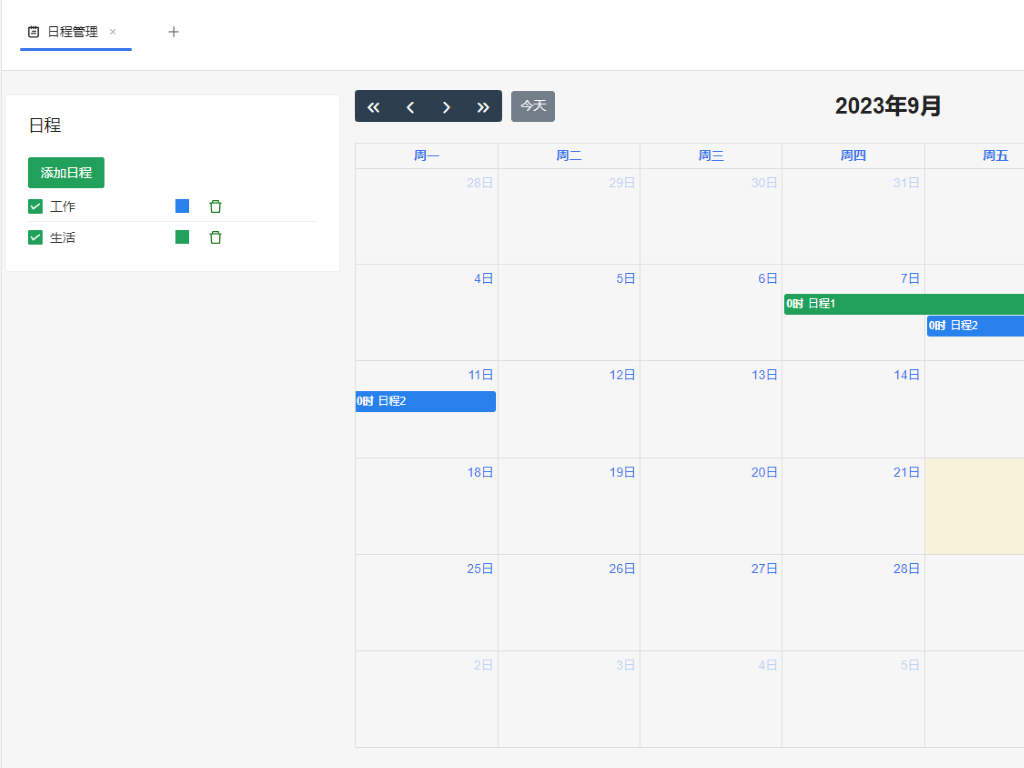
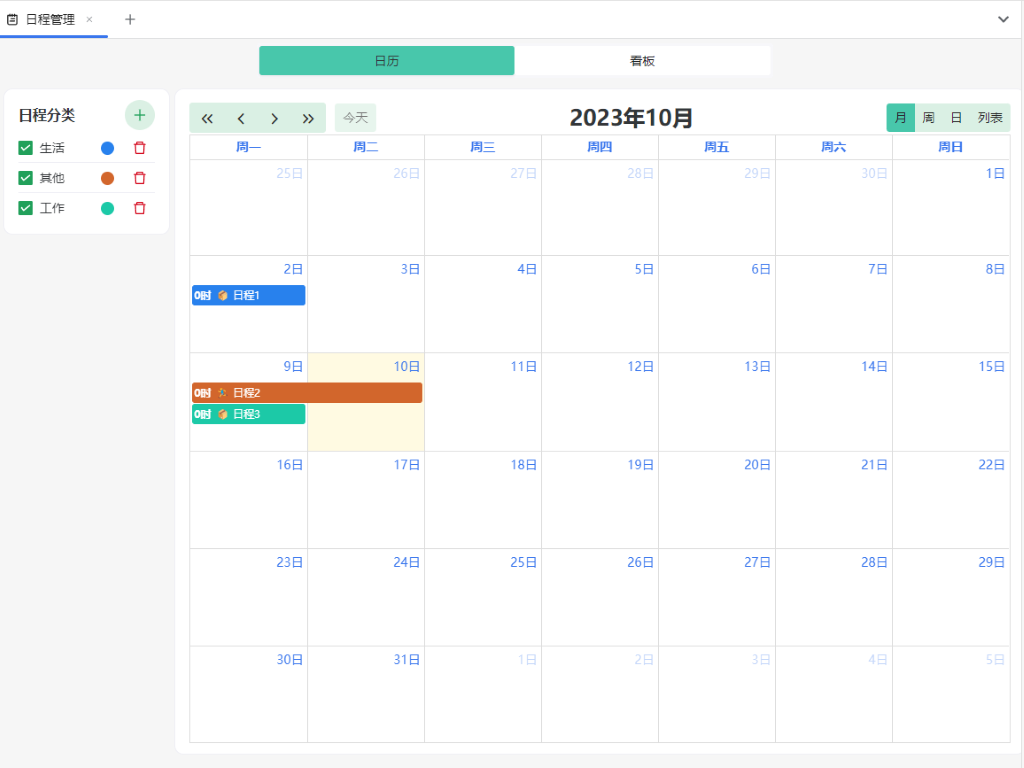
docs: 1. Update docs

diff --git a/src/components/ScheduleCategory.vue b/src/components/ScheduleCategory.vue
@@ -131,7 +131,7 @@ export default defineComponent({
 
   methods: {
     submitCallback() {
-      let newCategory = new ScheduleCategory(this.scheduleName, this.scheduleColor);
+      let newCategory = new ScheduleCategory(this.scheduleName, this.scheduleColor, true);
       if(this.globalData.scheduleCategories.addCategory(newCategory) === true) {
         EventAggregator.emit('addCategorty', {
           "checked": newCategory.checked,

diff --git a/README_zh_CN.md b/README_zh_CN.md
@@ -27,28 +27,31 @@
 ### 2. 删除日程分类
 点击日程分类最后的删除按钮，可以删除对应日程分类，以及**日程管理笔记本**下的对应文档。
 
+### 3. 日程分类选定
+点击日程分类名前的勾选框，可以选择是否显示当前分类下的所有日程，勾选状态会保存到文档中。
+
 >- **操作需谨慎**，删除日程分类会删除对应的所有日程，且不可恢复
 
-### 3. 添加日程
+### 4. 添加日程
 双击某个日历格，会弹出日程添加界面，可以自定义日程分类、日程起止时间、日程名、日程内容和日程的状态。
 
 添加日程时，会在相应名字的文档中创建一条记录，**不要编辑！！！**
 
 [![pPogRoQ.png](https://z1.ax1x.com/2023/09/22/pPogRoQ.png)](https://imgse.com/i/pPogRoQ)
 
-### 4. 更新日程
+### 5. 更新日程
 单击某个日程，会弹出更新日程的界面，可以修改日程的各种信息。同时修改对应文档中记录的信息。
 
 [![pPog2dg.png](https://z1.ax1x.com/2023/09/22/pPog2dg.png)](https://imgse.com/i/pPog2dg)
 
-### 5. 删除日程
+### 6. 删除日程
 在上述日程更新界面，点击删除日程按钮，会删除当前日程，以及对应文档中的记录，**不可恢复**。
 
-### 6. 日程信息编辑界面
+### 7. 日程信息编辑界面
 1. 点击确定、更新、删除日程或取消按钮时，界面会消失，并且会清空上次填写的信息。
 2. 点击空白处，界面会消失，会保留上次填写的信息（防止误操作）。
 
-### 7. 任务看板界面
+### 8. 任务看板界面
 1. 实现了比较简陋的任务看板界面。
 2. 不支持日程的新增、拖拽。
 3. 支持日程信息的更新。
@@ -59,7 +62,7 @@
 - [ ] 文档中日程记录显示样式优化
 - [x] 任务看板界面
 - [ ] 适配移动端
-- [ ] 根据日程分类筛选加载的日程
+- [x] 根据日程分类筛选加载的日程
 
 ## FAQ
 

diff --git a/README.md b/README.md
@@ -29,6 +29,9 @@ Through clicking the remove button at the end of a schedule category, you can re
 
 >- **Need to be careful**, removing a schedule category removes all the corresponding schedules and cannot be recovered.
 
+### 3. Selection of Schedule Category
+Click the checkbox in front of the schedule category name to choose whether to display all schedules under the current category. The check status will be saved in the document.
+
 ### 3. Add Schedule
 Double-click a calendar grid to open a schedule adding window, where you can customize the category, time range, name, content and status of a schedule.
 
@@ -58,7 +61,7 @@ Clicking the remove schedule button on the above-mentioned window will remove th
 - [ ] Optimization of the display style of schedule records in documents
 - [x] Task kanban view
 - [ ] Adaptation for mobile
-- [ ] Filter loaded schedules according to schedule categories
+- [x] Filter loaded schedules according to schedule categories
 
 ## FAQ
 
